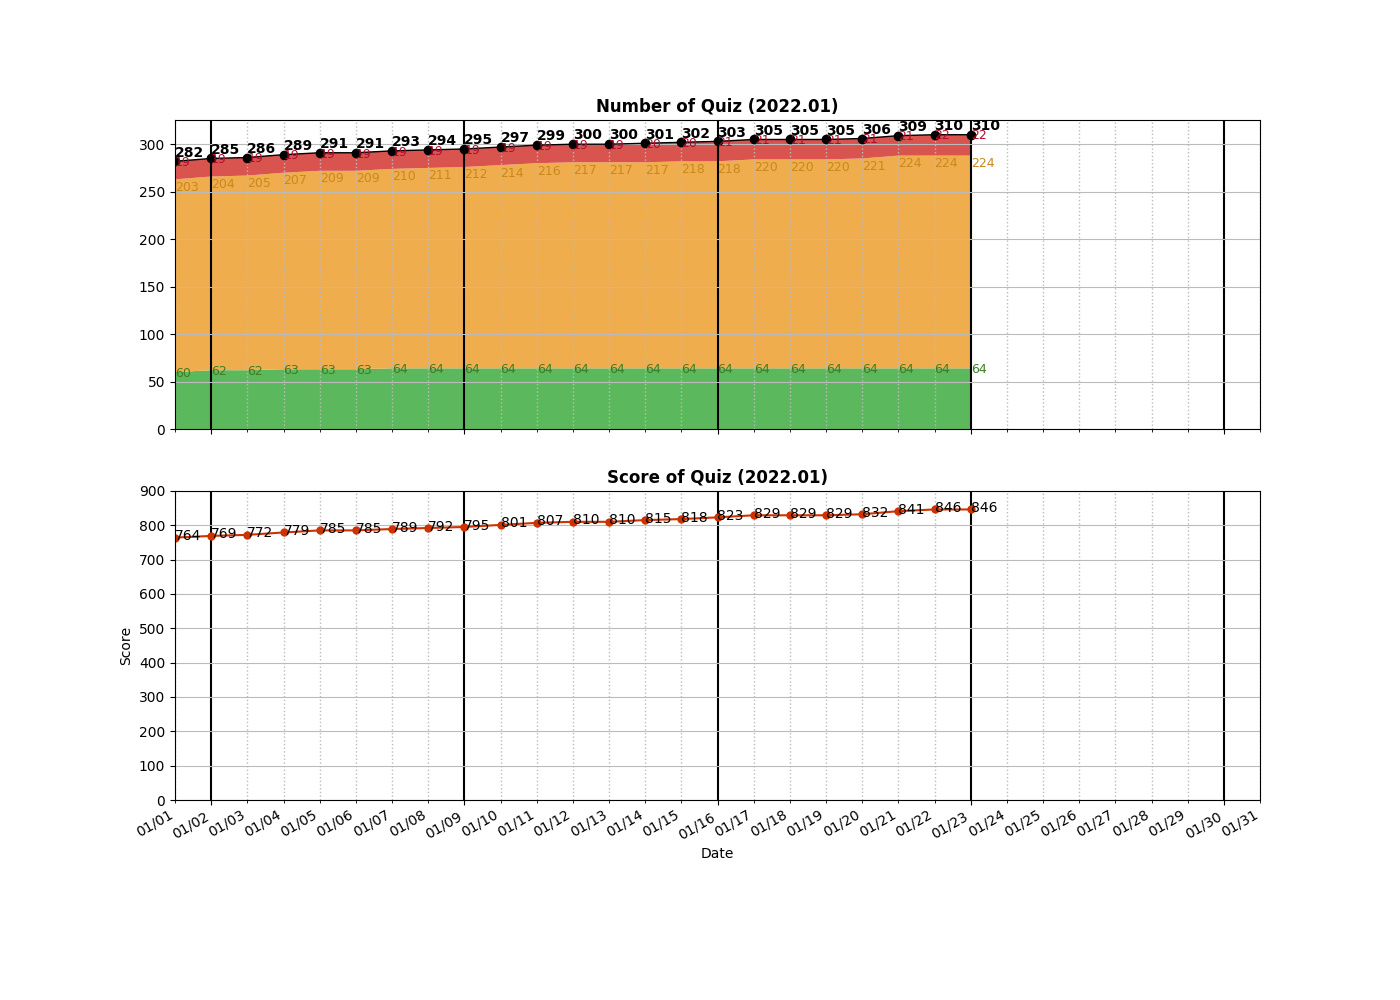
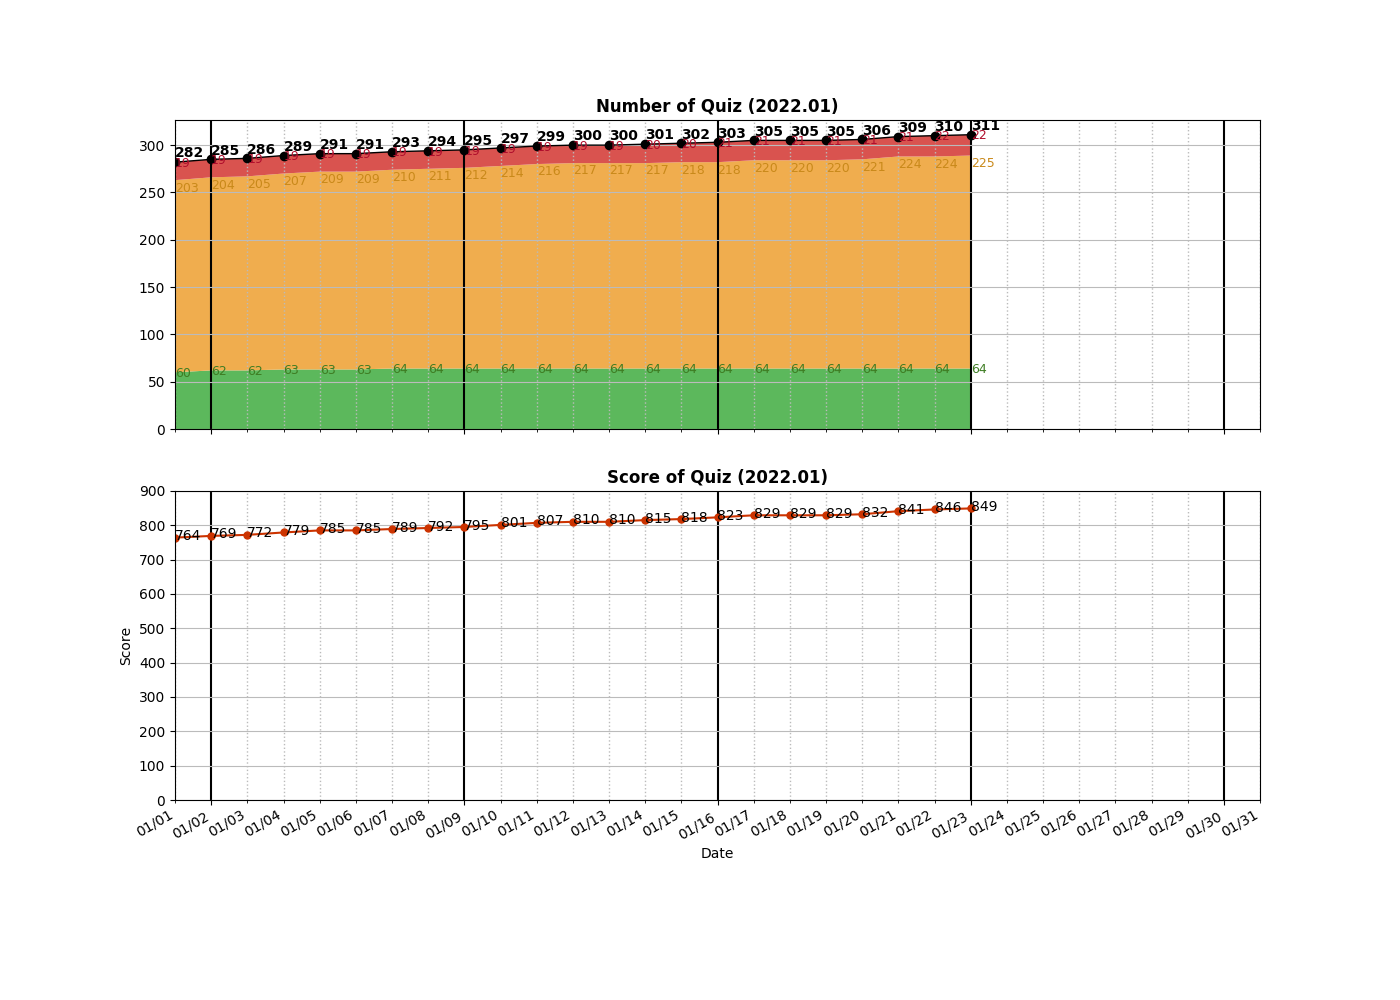
Added __0904__Fruit Into Baskets.py

diff --git a/algo/Two-Pointer/__0904__Fruit Into Baskets.py b/algo/Two-Pointer/__0904__Fruit Into Baskets.py
@@ -1,0 +1,20 @@
+class Solution:
+    
+    #Sliding-window [O(n): 77%]
+    def totalFruit(self, fruits: List[int]) -> int:
+        if not fruits:
+            return 0
+        
+        res = 0
+        left = 0
+        brackets = collections.defaultdict(int)
+        for right, r in enumerate(fruits):
+            brackets[r] += 1
+            while len(brackets) > 2 :
+                l = fruits[left]
+                brackets[l] -= 1
+                if brackets[l] == 0:
+                    del brackets[l]
+                left += 1
+            res = max(res, right - left + 1)
+        return res

diff --git a/README.md b/README.md
@@ -322,6 +322,7 @@ algo
 │   ├── __0532__K-diff Pairs in an Array.py
 │   ├── __0611__Valid Triangle Number.py
 │   ├── __0680__Valid Palindrome II.py
+│   ├── __0904__Fruit Into Baskets.py
 │   ├── __0905__Sort Array By Parity.py
 │   ├── __0912__Sort an Array.py
 │   ├── __0922__Sort Array By Parity II.py
@@ -349,7 +350,7 @@ algo
     ├── Countries.py
     └── SwitchingArray.py
 
-26 directories, 322 files
+26 directories, 323 files
 
 =====================================
 ============= Local Repo ============
@@ -602,6 +603,7 @@ __0841__Keys and Rooms.py
 __0862__Shortest Subarray with Sum at Least K.py
 __0863__All Nodes Distance K in Binary Tree.py
 __0875__Koko Eating Bananas.py
+__0904__Fruit Into Baskets.py
 __0905__Sort Array By Parity.py
 __0909__Snakes and Ladders.py
 __0912__Sort an Array.py
@@ -665,7 +667,7 @@ __1905__Count Sub Islands.py
 __1937__Maximum Number of Points with Cost.py
 __2093__Minimum Cost to Reach City With Discounts.py
 =====================================
-Num of Python Practice:  310
+Num of Python Practice:  311
 
 
 =====================================
@@ -919,6 +921,7 @@ Num of Python Practice:  310
  0862 Shortest Subarray with Sum at Least K
  0863 All Nodes Distance K in Binary Tree
  0875 Koko Eating Bananas
+ 0904 Fruit Into Baskets
  0905 Sort Array By Parity
  0909 Snakes and Ladders
  0912 Sort an Array
@@ -982,11 +985,11 @@ Num of Python Practice:  310
  1937 Maximum Number of Points with Cost
  2093 Minimum Cost to Reach City With Discounts
 =====================================
-Solved / Total (Easy)  :   64 /  542
-Solved / Total (Medium):  224 / 1146
-Solved / Total (Hard)  :   22 /  459
-Solved / Total (All)   :  310 / 2147
-Total Score            :  846
+Solved / Total (Easy)  :   64 /  543
+Solved / Total (Medium):  225 / 1148
+Solved / Total (Hard)  :   22 /  460
+Solved / Total (All)   :  311 / 2151
+Total Score            :  849
 =====================================
 
 ```
